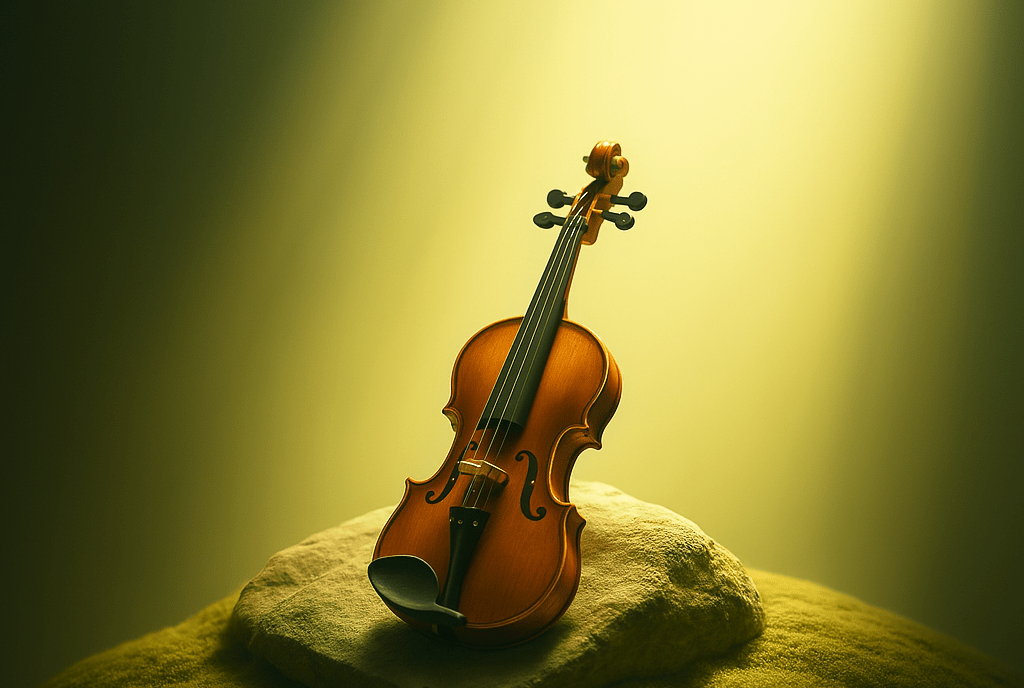
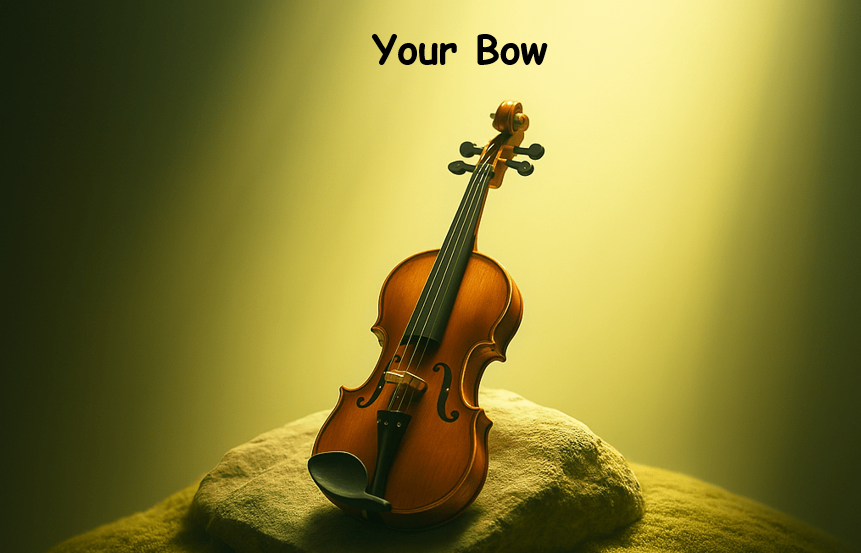
updates

Changed region(s): [[0.0604, 0.1844, 0.9059, 1.0], [0.4228, 0.0615, 0.6341, 0.123]]

diff --git a/components/SongDetails.jsx b/components/SongDetails.jsx
@@ -49,16 +49,16 @@ export default function SongDetails({ song }) {
             {song.title}
           </h1>
           <div className="max-w-[700px] mx-auto mt-6">
-            <div className="flex flex-wrap justify-center gap-4 lg:gap-6">
+            <div className="flex flex-wrap justify-center space-x-6">
               {song.people.map((person, index) => (
                 <div
                   key={person.name}
                   className="inline-flex items-center"
                 >
-                  <span className="font-medium text-gray-900 dark:text-gray-100 text-sm lg:text-base">
+                  <span className="font-medium text-gray-900 dark:text-gray-100 text-sm lg:text-base mb-2">
                     {person.name}
                   </span>
-                  <span className="ml-1 text-xs lg:text-sm text-gray-500 dark:text-gray-400">
+                  <span className="ml-1 text-xs lg:text-sm text-gray-500 dark:text-gray-400 mb-2">
                     ({person.role})
                   </span>
                 </div>

diff --git a/app/page.js b/app/page.js
@@ -29,13 +29,13 @@ export default function Home() {
       </h1>
 
       <div className="flex flex-col text-center items-center justify-start w-full px-4 md:px-6 lg:px-8">
-        <p className="text-sm sm:text-base md:text-lg lg:text-xl mb-4 md:mb-6 lg:mb-12 w-full text-gray-700 dark:text-gray-400">
+        <p className="text-sm sm:text-base md:text-lg lg:text-xl w-full text-gray-700 dark:text-gray-400">
           Our music, as of today...
         </p>
 
         <div className="w-full max-w-7xl sm:px-[100px] 2xl:px-[0px]">
           {activeSongs.length > 0 && (
-            <div className="mt-6 sm:mt-[70px]">
+            <div className="mt-6 sm:mt-[px]">
               <div className="grid grid-cols-1 lg:grid-cols-2 2xl:grid-cols-3 gap-6 sm:gap-8">
                 {activeSongs.map((song) => (
                   <div key={song.identifier} className="relative">

diff --git a/components/PersonCard.jsx b/components/PersonCard.jsx
@@ -11,9 +11,9 @@ export default function PersonCard({ person }) {
   return (
     <button 
       onClick={handleClick}
-      className="group relative w-[240px] bg-white dark:bg-gray-900 rounded-2xl overflow-hidden shadow-xl hover:shadow-2xl transition-all duration-500 transform hover:-translate-y-2 focus:outline-none focus:ring-2 focus:ring-blue-500 focus:ring-offset-2"
+      className="group relative w-[260px] bg-white dark:bg-gray-900 rounded-2xl overflow-hidden shadow-xl hover:shadow-2xl transition-all duration-500 transform hover:-translate-y-2 focus:outline-none focus:ring-2 focus:ring-blue-500 focus:ring-offset-2"
     >
-      <div className="relative w-full h-[200px] overflow-hidden">
+      <div className="relative w-full h-[260px] overflow-hidden">
         <img
           src={person.image}
           alt=""

diff --git a/app/ThemeButton.jsx b/app/ThemeButton.jsx
@@ -2,16 +2,7 @@
 
 import * as React from 'react';
 import { useTheme } from 'next-themes';
-import { SunIcon } from '@heroicons/react/24/solid';
-import { MoonIcon } from '@heroicons/react/24/outline';
 
-import { Button } from '@/components/ui/button';
-import {
-  DropdownMenu,
-  DropdownMenuContent,
-  DropdownMenuItem,
-  DropdownMenuTrigger,
-} from '@/components/ui/dropdown-menu';
 import { Switch } from '@/components/ui/switch';
 import { Label } from '@/components/ui/label';
 

diff --git a/components/SongCard.jsx b/components/SongCard.jsx
@@ -23,7 +23,7 @@ export default function SongCard({ song }) {
           </p>
         )}
 
-        <div className="text-xs text-gray-600 dark:text-gray-300">
+        <div className="text-xs text-gray-600 dark:text-gray-300 line-clamp-3">
           {song.people.map((person, index) => (
             <p key={index}>
               {person.name} {person.role && `(${person.role})`}

diff --git a/app/about-us/page.jsx b/app/about-us/page.jsx
@@ -18,7 +18,7 @@ export default function AboutUsPage() {
       </div>
 
 
-      <h1 className="text-4xl font-bold text-center pt-10 pb-8">
+      <h1 className="text-4xl font-bold text-center pt-20 pb-12">
         With Special Thanks To...
       </h1>
       <div className="flex gap-4 flex-wrap justify-center mx-auto px-4 max-w-[1200px]">

diff --git a/app/layout.js b/app/layout.js
@@ -18,7 +18,7 @@ export default function RootLayout({ children }) {
       <GoogleAnalytics />
       <ThemeProvider
         attribute="class"
-        defaultTheme="system"
+        defaultTheme="light"
         enableSystem
         disableTransitionOnChange
       >
